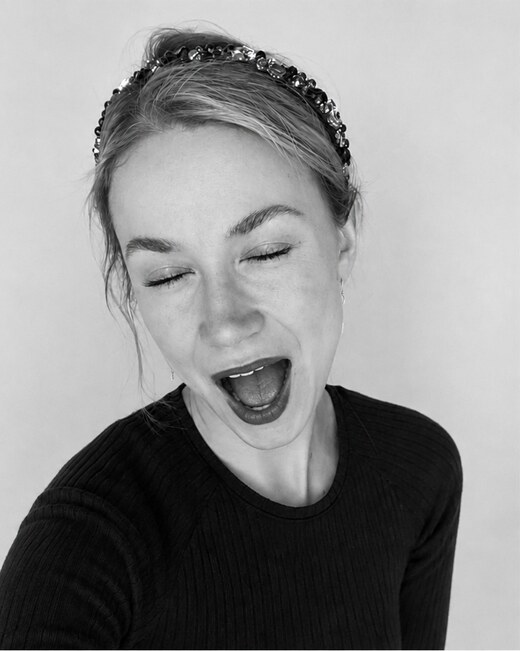
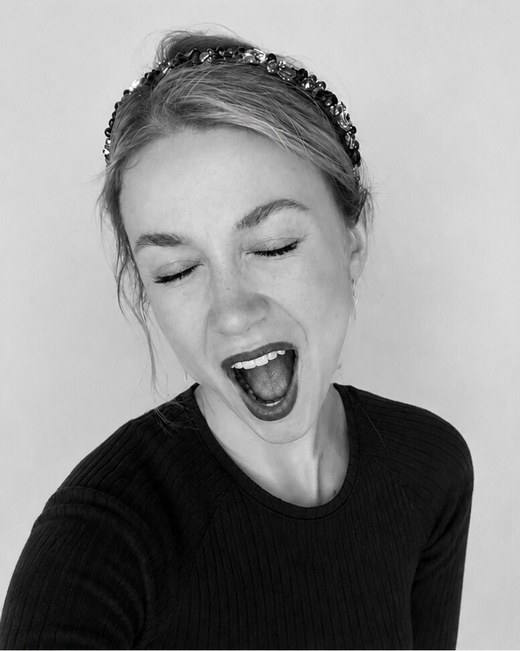
Fix KS hero rock expression (#34)
* Fix KS hero rock expression

* Refine KS hero jaw transition

* Match KS hover chin to source reference

* Refine hero portrait seams

* Refine hero jaw seam

* Refine hero chin contour

* Remove final hero jaw drift

---------

Changed region(s): [[0.1538, 0.0307, 0.7385, 0.7988], [0.7385, 0.6144, 0.9231, 1.0], [0.0, 0.6452, 0.2462, 0.9831]]

diff --git a/AGENTS.md b/AGENTS.md
@@ -113,11 +113,25 @@ Below that it is an ordinary flowing document.
 ## The hero portrait
 
 - Two frames cross-fade in the same box: `assets/portrait/calm-*` and
-  `assets/portrait/wink-*`. They are **two halves of one diptych the client
-  drew herself**, already identically framed, so the swap needs no compositing,
-  no scaling and no alignment work — the build just splits, trims and exports
-  them. Do not "improve" the alignment; anything that moves one frame relative
-  to the other breaks the illusion of a single continuous shot.
+  `assets/portrait/wink-*`. The hover expression comes from the client's exact
+  reference in `source-assets/portrait-rock-reference.png`. Register that source
+  rigidly to the fixed head position, then keep its complete face — from the
+  brows through the open mouth, lower oval and elongated chin — at the source
+  proportions. Do not morph its jaw toward the shorter calm-frame jaw. The head
+  position, crown, hair, headband, loose strands, neck, shoulders, clothes,
+  background and crop stay fixed to the calm frame. The viewer-right ear,
+  earring and adjacent edge hair remain literal calm-frame pixels in the hover
+  export. Transfer the hover face through the full lower oval and its elongated
+  chin shadow, with the smooth outer seam running outside that contour and
+  fading into the fixed calm neck before the garment. Do not scale or stretch
+  the face to meet the ear, and do not import the reference garment edge.
+  Immediately outside the single hover jaw line, keep a clean calm-background
+  field with only the natural 1–2 px edge antialiasing: no second skin edge,
+  translucent halo or triangular matte before the shoulder.
+  Moving the fixed regions between frames breaks the illusion of a single
+  continuous shot.
+- Remove the source photo's narrow dark sliver at the extreme bottom-right from
+  both exported frames so that defect neither remains visible nor flickers.
 - The frame is `aspect-ratio: 776 / 971`, the exact aspect of the source pair,
   and the images are `object-fit: cover` with no `object-position` shift. Zero
   crop means zero drift between the two states.

diff --git a/README.md b/README.md
@@ -19,6 +19,19 @@ The customer stage remains on Cloudflare Workers; production is
 [ks-design.art](https://ks-design.art), served from an isolated Docker Compose
 project on the owner's `cz` server.
 
+The hero's rock-expression source is preserved at
+[`source-assets/portrait-rock-reference.png`](./source-assets/portrait-rock-reference.png).
+The published hover exports rigidly register that exact source to the fixed head
+position, preserving its open mouth, complete lower oval and elongated chin
+without morphing them toward the calm face. The crown, hair, headband, loose
+strands, body, shoulders, background and overall head placement stay fixed to
+the calm frame. The viewer-right ear also stays literally fixed to the calm
+frame. A narrow curved transition outside the outer cheek and jaw keeps the
+complete rock-expression lower oval and its elongating chin shadow intact, then
+fades into the fixed calm neck without a double contour, clothing leak or drift.
+Immediately outside that single jaw line, the hover frame must read as clean
+calm-frame background rather than a face-coloured halo or triangular matte.
+
 ## Source of truth
 
 | Item | Value | Source |
